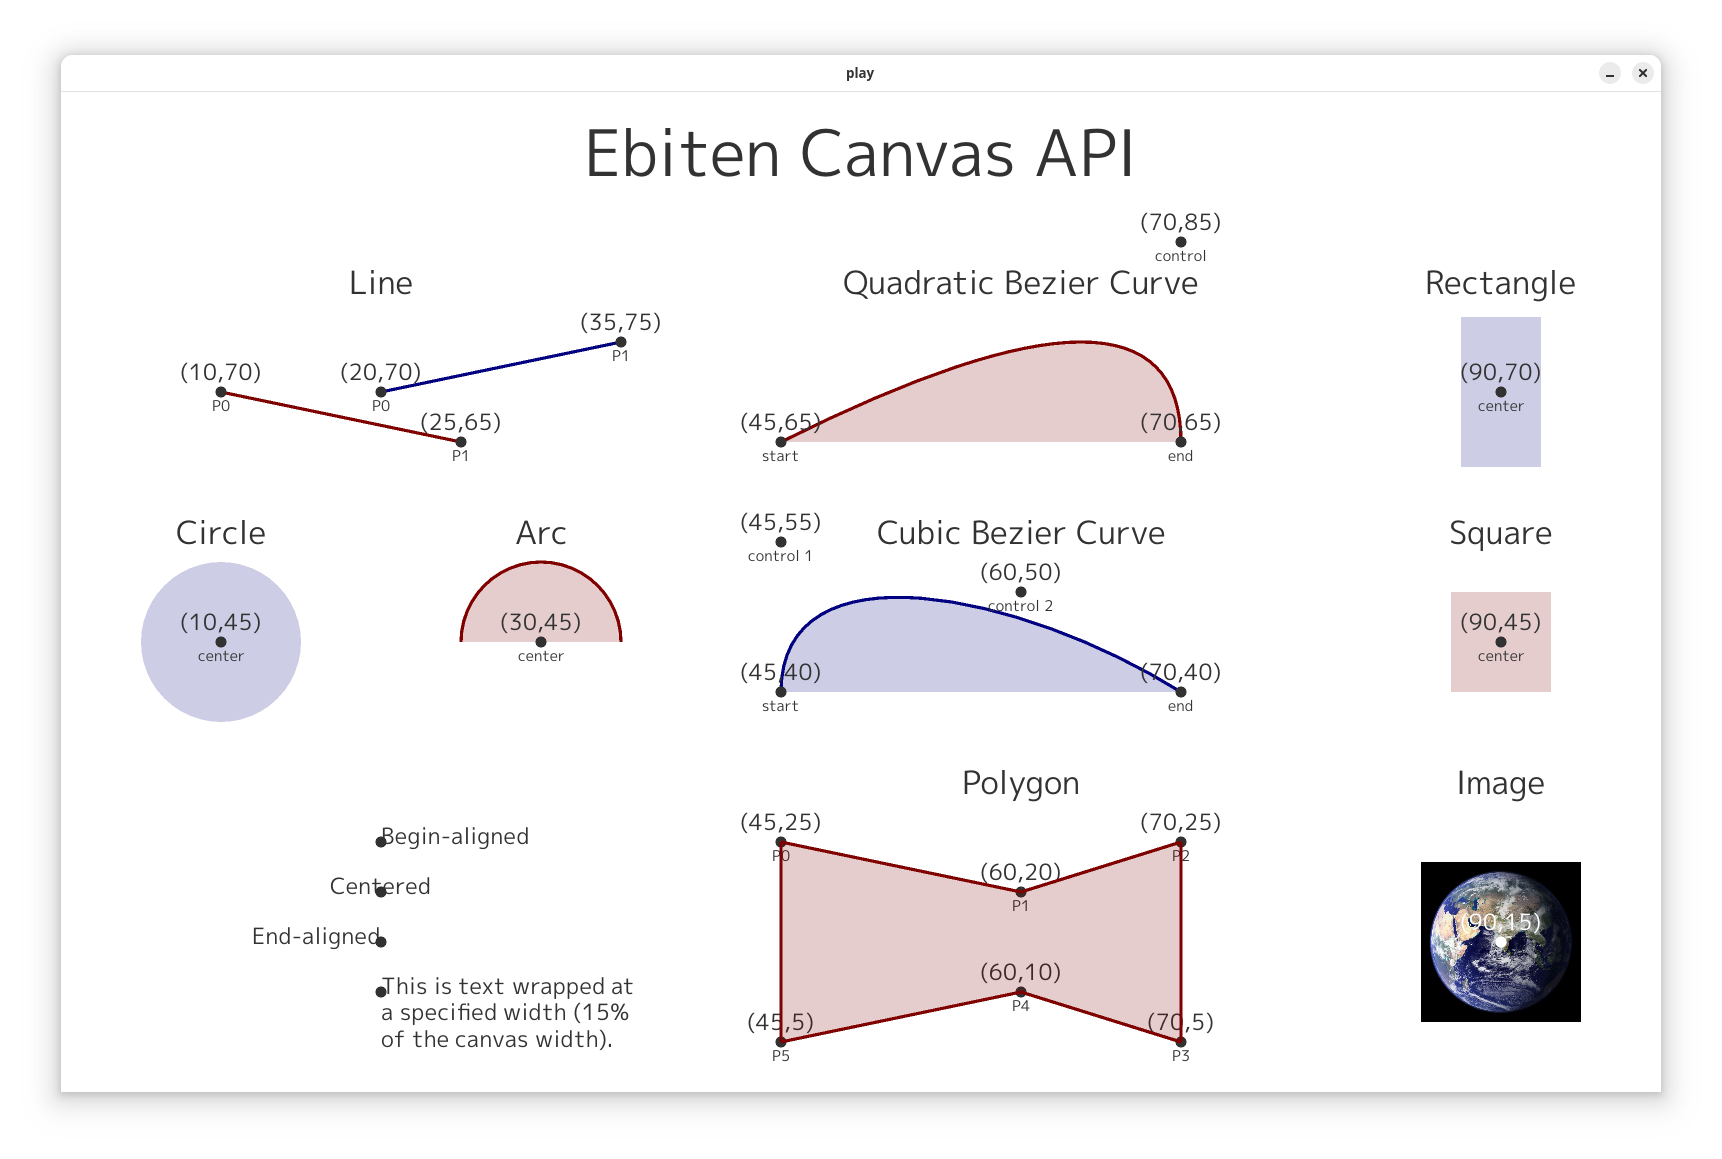
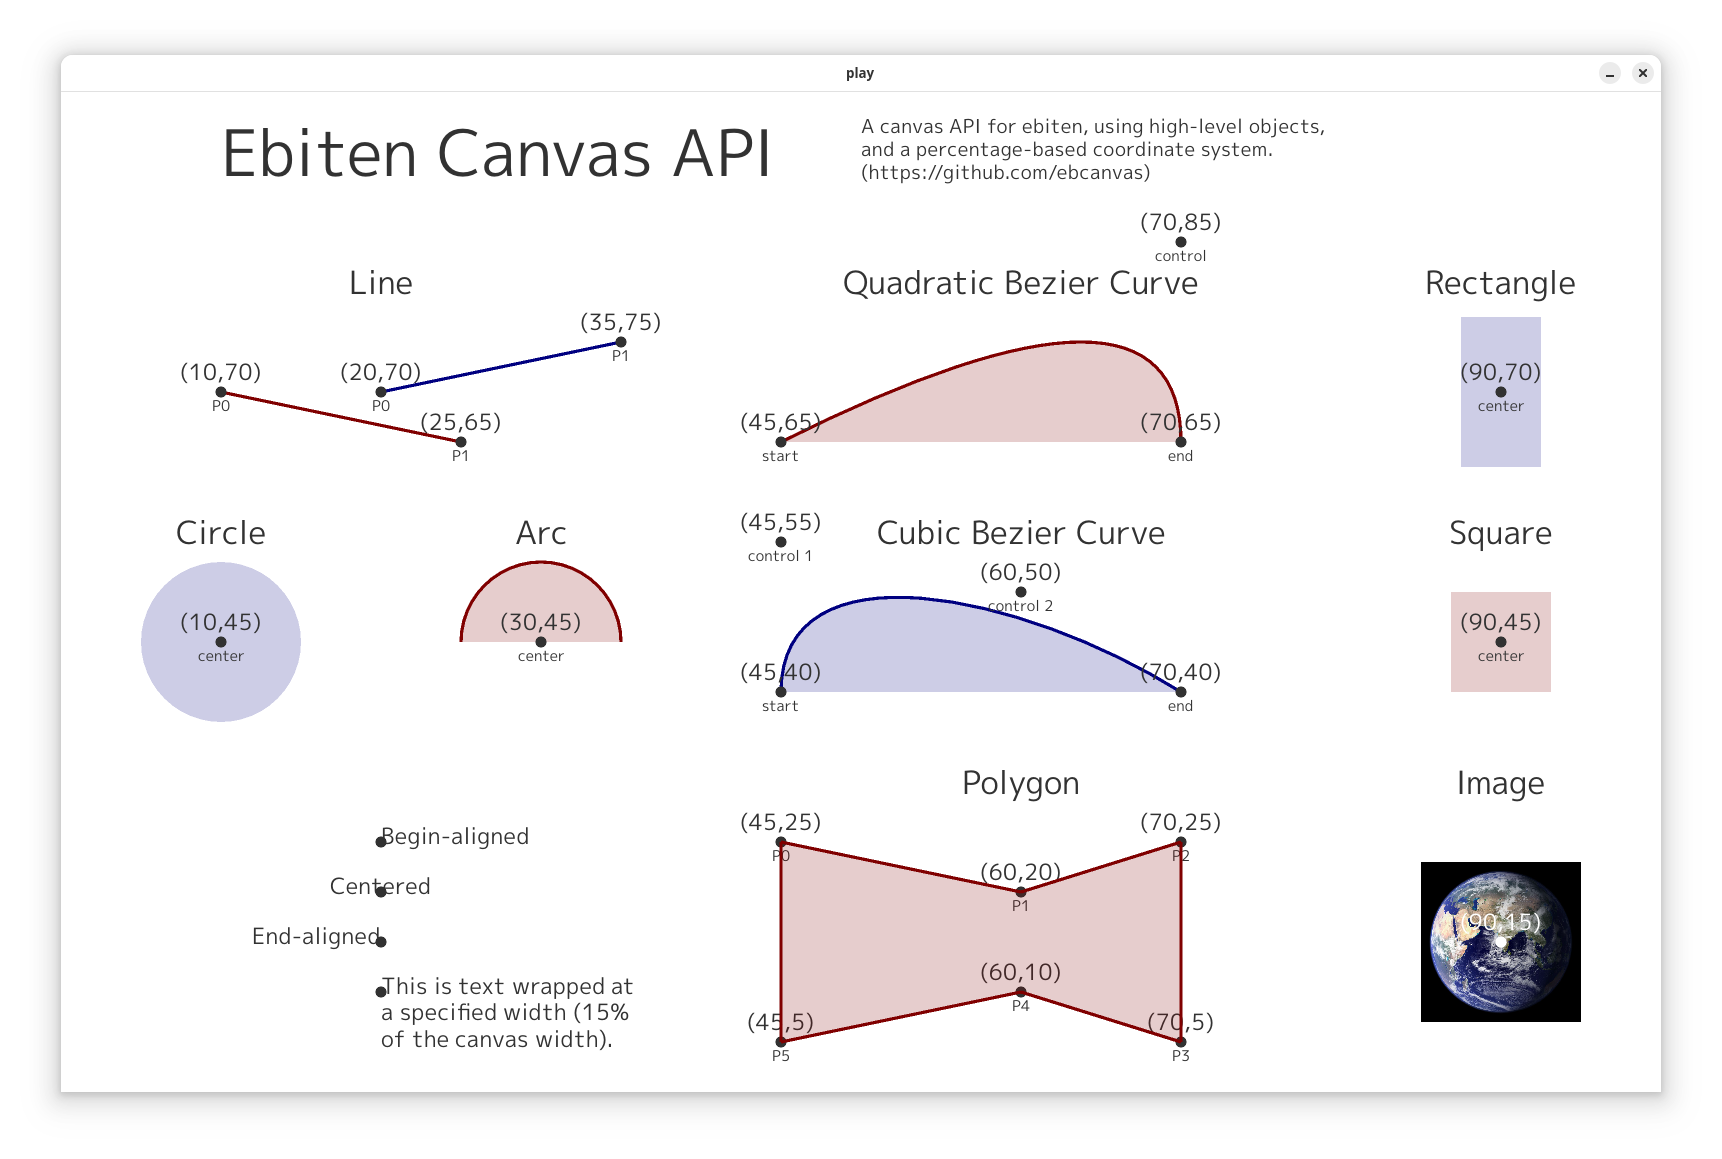
add text to play

Changed region(s): [[0.1231, 0.0932, 0.7695, 0.1553]]

diff --git a/play/main.go b/play/main.go
@@ -75,12 +75,14 @@ func play(screen *ebiten.Image) {
 	titlesize := labelsize * 2
 	subsize := labelsize * 0.7
 	wrapfmt := `This is text wrapped at a specified width (%1.f%% of the canvas width).`
+	apimsg := "A canvas API for ebiten, using high-level objects, and a percentage-based coordinate system. (https://github.com/ebcanvas)"
 
 	// Title
 	canvas.Background(bgcolor)
 
 	colx = 20
-	canvas.CText(50, 92, titlesize, "Ebiten Canvas API", labelcolor)
+	canvas.Text(10, 92, titlesize, "Ebiten Canvas API", labelcolor)
+	canvas.TextWrap(50, 96, 25, titlesize*.3, apimsg, labelcolor)
 
 	// Lines
 	canvas.CText(colx, 80, labelsize, "Line", labelcolor)
